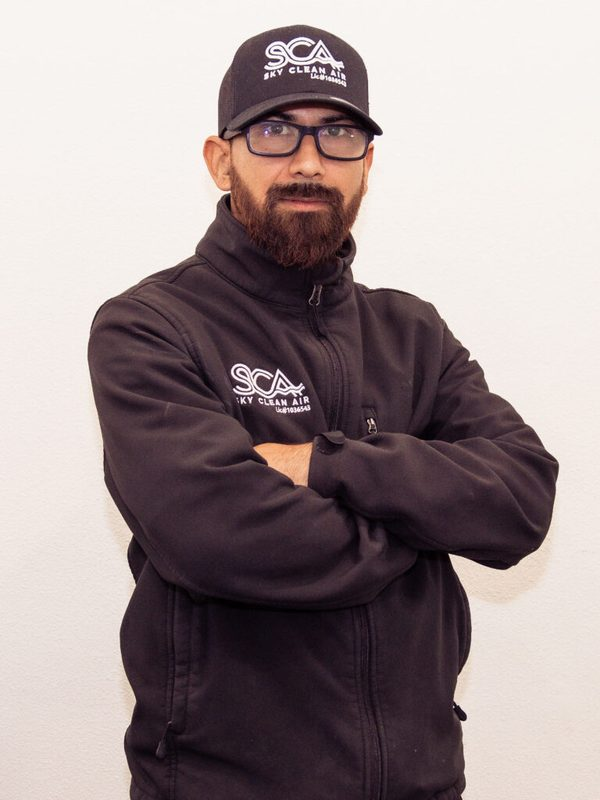
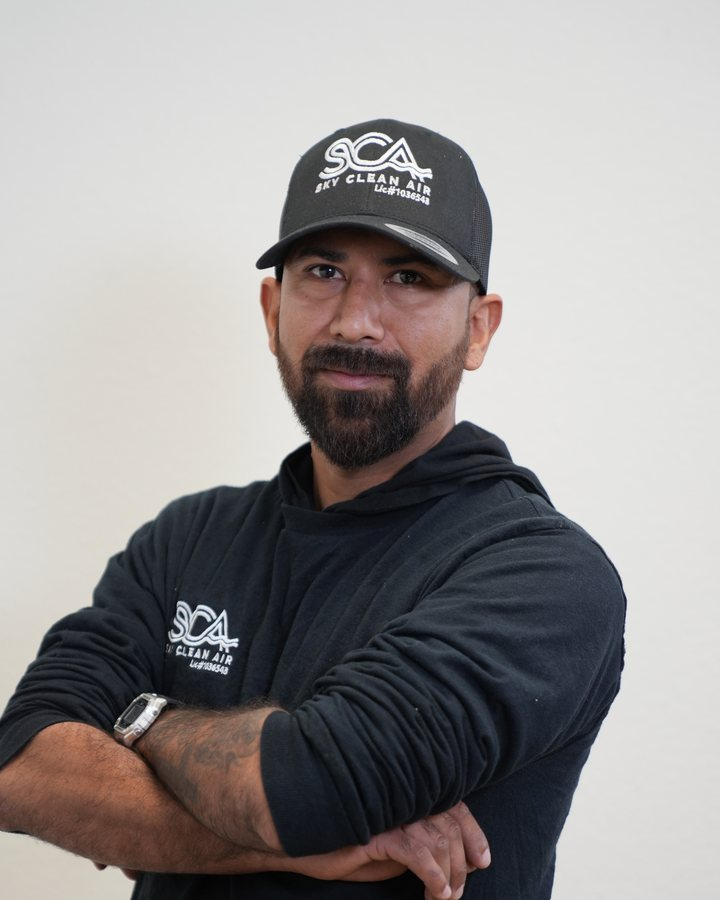
Team page: client-picked headshots, 16 more crew cards
Uses the headshots the client picked from the Sept 29 shoot: Nadav
(01661), Daniel (01516), Valarie (01194), Erick (00781) and Louis
(00815) replace the earlier choices / legacy photos. Adds a "More of
Our Crew" section with cards for the 16 other people photographed.
Their names aren't confirmed yet, so cards read "Sky Clean Air Crew /
Team Member" (with a draft-only "name coming soon" note) — no guessed
names. team.json records each card's source frame.

diff --git a/public/our-team/index.html b/public/our-team/index.html
@@ -19,7 +19,7 @@
 <link rel="preload" href="/assets/fonts/antonio/Antonio-Bold.ttf" as="font" type="font/ttf" crossorigin>
 <link rel="stylesheet" href="/css/styles.css?v=c94045c5">
 <script type="application/ld+json">{"@context": "https://schema.org", "@type": "HVACBusiness", "@id": "https://skycleanair.com/#business", "name": "Sky Clean Air", "url": "https://skycleanair.com/", "telephone": "+1-619-304-8822", "image": "https://skycleanair.com/assets/logos/sca-logo-trimmed-600.png", "foundingDate": "2018", "address": {"@type": "PostalAddress", "streetAddress": "9474 Chesapeake Dr STE 902", "addressLocality": "San Diego", "addressRegion": "CA", "postalCode": "92123", "addressCountry": "US"}, "geo": {"@type": "GeoCoordinates", "latitude": 32.8279, "longitude": -117.1403}, "openingHours": ["Mo-Fr 08:00-18:00", "Sa 08:00-15:00"], "areaServed": ["Orange County", "San Diego County"], "sameAs": ["https://instagram.com/skycleanairhvac", "https://tiktok.com/@sky.clean.air.hvac", "https://www.facebook.com/SkyCleanAir", "https://www.yelp.com/biz/sky-clean-air-san-diego"]}</script>
-<script type="application/ld+json">{"@context": "https://schema.org", "@type": "Organization", "name": "Sky Clean Air", "url": "https://skycleanair.com/", "founder": [{"@type": "Person", "name": "Nadav Offer"}, {"@type": "Person", "name": "Daniel Lezmy"}], "employee": [{"@type": "Person", "name": "Nadav Offer", "jobTitle": "Co-Founder & CEO"}, {"@type": "Person", "name": "Daniel Lezmy", "jobTitle": "Co-Founder & Co-Owner"}, {"@type": "Person", "name": "Valarie Chavez", "jobTitle": "Office Manager"}, {"@type": "Person", "name": "Oscar L.", "jobTitle": "Sales Technician"}, {"@type": "Person", "name": "Taylor M.", "jobTitle": "Sales Technician"}, {"@type": "Person", "name": "Joe", "jobTitle": "HVAC Technician"}]}</script>
+<script type="application/ld+json">{"@context": "https://schema.org", "@type": "Organization", "name": "Sky Clean Air", "url": "https://skycleanair.com/", "founder": [{"@type": "Person", "name": "Nadav Offer"}, {"@type": "Person", "name": "Daniel Lezmy"}], "employee": [{"@type": "Person", "name": "Nadav Offer", "jobTitle": "Co-Founder & CEO"}, {"@type": "Person", "name": "Daniel Lezmy", "jobTitle": "Co-Founder & Co-Owner"}, {"@type": "Person", "name": "Valarie Chavez", "jobTitle": "Office Manager"}, {"@type": "Person", "name": "Oscar L.", "jobTitle": "Sales Technician"}, {"@type": "Person", "name": "Taylor M.", "jobTitle": "Sales Technician"}, {"@type": "Person", "name": "Joe", "jobTitle": "HVAC Technician"}, {"@type": "Person", "name": "", "jobTitle": ""}, {"@type": "Person", "name": "", "jobTitle": ""}, {"@type": "Person", "name": "", "jobTitle": ""}, {"@type": "Person", "name": "", "jobTitle": ""}, {"@type": "Person", "name": "", "jobTitle": ""}, {"@type": "Person", "name": "", "jobTitle": ""}, {"@type": "Person", "name": "", "jobTitle": ""}, {"@type": "Person", "name": "", "jobTitle": ""}, {"@type": "Person", "name": "", "jobTitle": ""}, {"@type": "Person", "name": "", "jobTitle": ""}, {"@type": "Person", "name": "", "jobTitle": ""}, {"@type": "Person", "name": "", "jobTitle": ""}, {"@type": "Person", "name": "", "jobTitle": ""}, {"@type": "Person", "name": "", "jobTitle": ""}, {"@type": "Person", "name": "", "jobTitle": ""}, {"@type": "Person", "name": "", "jobTitle": ""}]}</script>
 <script type="application/ld+json">{"@context": "https://schema.org", "@type": "BreadcrumbList", "itemListElement": [{"@type": "ListItem", "position": 1, "name": "Home", "item": "https://skycleanair.com/"}, {"@type": "ListItem", "position": 2, "name": "About", "item": "https://skycleanair.com/about-us/"}, {"@type": "ListItem", "position": 3, "name": "Our Team"}]}</script>
 </head>
 <body class="has-hero">
@@ -77,7 +77,7 @@
       <h1>Meet The <span class="hl">Sky Clean Air</span> Team</h1>
       <p class="lede">A family-owned company runs on its people. Here’s who you’ll talk to on the phone, who plans your install, and who shows up at your door.</p>
       
-      <nav class="dept-nav" aria-label="Departments"><a href="#management">Management</a><a href="#installation">HVAC Installation Team</a><a href="#technicians">Technicians &amp; Helpers</a></nav>
+      <nav class="dept-nav" aria-label="Departments"><a href="#management">Management</a><a href="#installation">HVAC Installation Team</a><a href="#technicians">Technicians &amp; Helpers</a><a href="#crew">More of Our Crew</a></nav>
     </div>
   </div>
   <div class="wave-divider" aria-hidden="true"><svg viewBox="0 0 1440 90" preserveAspectRatio="none"><path d="M0,40 C360,100 1080,-10 1440,50 L1440,90 L0,90 Z" fill="#ffffff"/></svg></div>
@@ -195,6 +195,175 @@
     
     
     <p class="team-pending">Role &amp; duties coming soon</p>
+  </div>
+</article></div>
+  </div>
+</section><section class="section team-dept bg-soft" id="crew">
+  <div class="container">
+    <div class="section-head" data-reveal>
+      <span class="kicker-num" aria-hidden="true">04</span>
+      <h2>More of Our Crew</h2>
+      <p>The rest of the people who keep Sky Clean Air running — in the office, in the trucks and on the job site.</p>
+    </div>
+    <div class="team-grid"><article class="team-card" data-reveal>
+  <div class="team-photo"><img src="/assets/images/team/crew-00011.jpg" alt="Sky Clean Air Crew, Team Member at Sky Clean Air" loading="lazy"></div>
+  <div class="team-body">
+    <h3>Sky Clean Air Crew</h3>
+    <p class="team-role">Team Member</p>
+    
+    
+    
+    <p class="team-pending">Name, role &amp; duties coming soon</p>
+  </div>
+</article><article class="team-card" data-reveal>
+  <div class="team-photo"><img src="/assets/images/team/crew-00026.jpg" alt="Sky Clean Air Crew, Team Member at Sky Clean Air" loading="lazy"></div>
+  <div class="team-body">
+    <h3>Sky Clean Air Crew</h3>
+    <p class="team-role">Team Member</p>
+    
+    
+    
+    <p class="team-pending">Name, role &amp; duties coming soon</p>
+  </div>
+</article><article class="team-card" data-reveal>
+  <div class="team-photo"><img src="/assets/images/team/crew-00036.jpg" alt="Sky Clean Air Crew, Team Member at Sky Clean Air" loading="lazy"></div>
+  <div class="team-body">
+    <h3>Sky Clean Air Crew</h3>
+    <p class="team-role">Team Member</p>
+    
+    
+    
+    <p class="team-pending">Name, role &amp; duties coming soon</p>
+  </div>
+</article><article class="team-card" data-reveal>
+  <div class="team-photo"><img src="/assets/images/team/crew-00058.jpg" alt="Sky Clean Air Crew, Team Member at Sky Clean Air" loading="lazy"></div>
+  <div class="team-body">
+    <h3>Sky Clean Air Crew</h3>
+    <p class="team-role">Team Member</p>
+    
+    
+    
+    <p class="team-pending">Name, role &amp; duties coming soon</p>
+  </div>
+</article><article class="team-card" data-reveal>
+  <div class="team-photo"><img src="/assets/images/team/crew-00092.jpg" alt="Sky Clean Air Crew, Team Member at Sky Clean Air" loading="lazy"></div>
+  <div class="team-body">
+    <h3>Sky Clean Air Crew</h3>
+    <p class="team-role">Team Member</p>
+    
+    
+    
+    <p class="team-pending">Name, role &amp; duties coming soon</p>
+  </div>
+</article><article class="team-card" data-reveal>
+  <div class="team-photo"><img src="/assets/images/team/crew-00127.jpg" alt="Sky Clean Air Crew, Team Member at Sky Clean Air" loading="lazy"></div>
+  <div class="team-body">
+    <h3>Sky Clean Air Crew</h3>
+    <p class="team-role">Team Member</p>
+    
+    
+    
+    <p class="team-pending">Name, role &amp; duties coming soon</p>
+  </div>
+</article><article class="team-card" data-reveal>
+  <div class="team-photo"><img src="/assets/images/team/crew-00164.jpg" alt="Sky Clean Air Crew, Team Member at Sky Clean Air" loading="lazy"></div>
+  <div class="team-body">
+    <h3>Sky Clean Air Crew</h3>
+    <p class="team-role">Team Member</p>
+    
+    
+    
+    <p class="team-pending">Name, role &amp; duties coming soon</p>
+  </div>
+</article><article class="team-card" data-reveal>
+  <div class="team-photo"><img src="/assets/images/team/crew-00853.jpg" alt="Sky Clean Air Crew, Team Member at Sky Clean Air" loading="lazy"></div>
+  <div class="team-body">
+    <h3>Sky Clean Air Crew</h3>
+    <p class="team-role">Team Member</p>
+    
+    
+    
+    <p class="team-pending">Name, role &amp; duties coming soon</p>
+  </div>
+</article><article class="team-card" data-reveal>
+  <div class="team-photo"><img src="/assets/images/team/crew-00881.jpg" alt="Sky Clean Air Crew, Team Member at Sky Clean Air" loading="lazy"></div>
+  <div class="team-body">
+    <h3>Sky Clean Air Crew</h3>
+    <p class="team-role">Team Member</p>
+    
+    
+    
+    <p class="team-pending">Name, role &amp; duties coming soon</p>
+  </div>
+</article><article class="team-card" data-reveal>
+  <div class="team-photo"><img src="/assets/images/team/crew-00918.jpg" alt="Sky Clean Air Crew, Team Member at Sky Clean Air" loading="lazy"></div>
+  <div class="team-body">
+    <h3>Sky Clean Air Crew</h3>
+    <p class="team-role">Team Member</p>
+    
+    
+    
+    <p class="team-pending">Name, role &amp; duties coming soon</p>
+  </div>
+</article><article class="team-card" data-reveal>
+  <div class="team-photo"><img src="/assets/images/team/crew-00954.jpg" alt="Sky Clean Air Crew, Team Member at Sky Clean Air" loading="lazy"></div>
+  <div class="team-body">
+    <h3>Sky Clean Air Crew</h3>
+    <p class="team-role">Team Member</p>
+    
+    
+    
+    <p class="team-pending">Name, role &amp; duties coming soon</p>
+  </div>
+</article><article class="team-card" data-reveal>
+  <div class="team-photo"><img src="/assets/images/team/crew-00993.jpg" alt="Sky Clean Air Crew, Team Member at Sky Clean Air" loading="lazy"></div>
+  <div class="team-body">
+    <h3>Sky Clean Air Crew</h3>
+    <p class="team-role">Team Member</p>
+    
+    
+    
+    <p class="team-pending">Name, role &amp; duties coming soon</p>
+  </div>
+</article><article class="team-card" data-reveal>
+  <div class="team-photo"><img src="/assets/images/team/crew-01040.jpg" alt="Sky Clean Air Crew, Team Member at Sky Clean Air" loading="lazy"></div>
+  <div class="team-body">
+    <h3>Sky Clean Air Crew</h3>
+    <p class="team-role">Team Member</p>
+    
+    
+    
+    <p class="team-pending">Name, role &amp; duties coming soon</p>
+  </div>
+</article><article class="team-card" data-reveal>
+  <div class="team-photo"><img src="/assets/images/team/crew-01116.jpg" alt="Sky Clean Air Crew, Team Member at Sky Clean Air" loading="lazy"></div>
+  <div class="team-body">
+    <h3>Sky Clean Air Crew</h3>
+    <p class="team-role">Team Member</p>
+    
+    
+    
+    <p class="team-pending">Name, role &amp; duties coming soon</p>
+  </div>
+</article><article class="team-card" data-reveal>
+  <div class="team-photo"><img src="/assets/images/team/crew-01140.jpg" alt="Sky Clean Air Crew, Team Member at Sky Clean Air" loading="lazy"></div>
+  <div class="team-body">
+    <h3>Sky Clean Air Crew</h3>
+    <p class="team-role">Team Member</p>
+    
+    
+    
+    <p class="team-pending">Name, role &amp; duties coming soon</p>
+  </div>
+</article><article class="team-card" data-reveal>
+  <div class="team-photo"><img src="/assets/images/team/crew-01589.jpg" alt="Sky Clean Air Crew, Team Member at Sky Clean Air" loading="lazy"></div>
+  <div class="team-body">
+    <h3>Sky Clean Air Crew</h3>
+    <p class="team-role">Team Member</p>
+    
+    
+    
+    <p class="team-pending">Name, role &amp; duties coming soon</p>
   </div>
 </article></div>
   </div>

diff --git a/tools/gen_team.py b/tools/gen_team.py
@@ -10,13 +10,18 @@ from sitelib import breadcrumb_schema, cta_band, esc, icon, page_hero, placehold
 
 
 def member_card(ch, m):
+    if m.get('name_pending'):
+        # Photo from the team shoot, name not confirmed yet — never guess a name.
+        m = dict(m, name='Sky Clean Air Crew', role=m.get('role') or 'Team Member')
+        if ch.s.get('show_placeholders'):
+            m['role_pending'] = True
     photo = (f'<img src="{m["photo"]}" alt="{esc(m["name"])}, {esc(m["role"])} at Sky Clean Air" loading="lazy">'
              if m.get('photo') else f'<div class="team-photo-ph">{icon("user", 48)}</div>')
     duties = ''.join(f'<li>{esc(d)}</li>' for d in m.get('duties', []))
     facts = ''.join(f'<div><dt>{esc(k)}</dt><dd>{esc(v)}</dd></div>' for k, v in m.get('facts', []))
     pending = ''
     if m.get('role_pending') and ch.s.get('show_placeholders'):
-        pending = '<p class="team-pending">Role &amp; duties coming soon</p>'
+        pending = '<p class="team-pending">Name, role &amp; duties coming soon</p>' if m.get('name_pending') else '<p class="team-pending">Role &amp; duties coming soon</p>'
     nick = f' <span class="team-nick">“{esc(m["short"])}”</span>' if m.get('short') else ''
     return f'''<article class="team-card" data-reveal>
   <div class="team-photo">{photo}</div>
